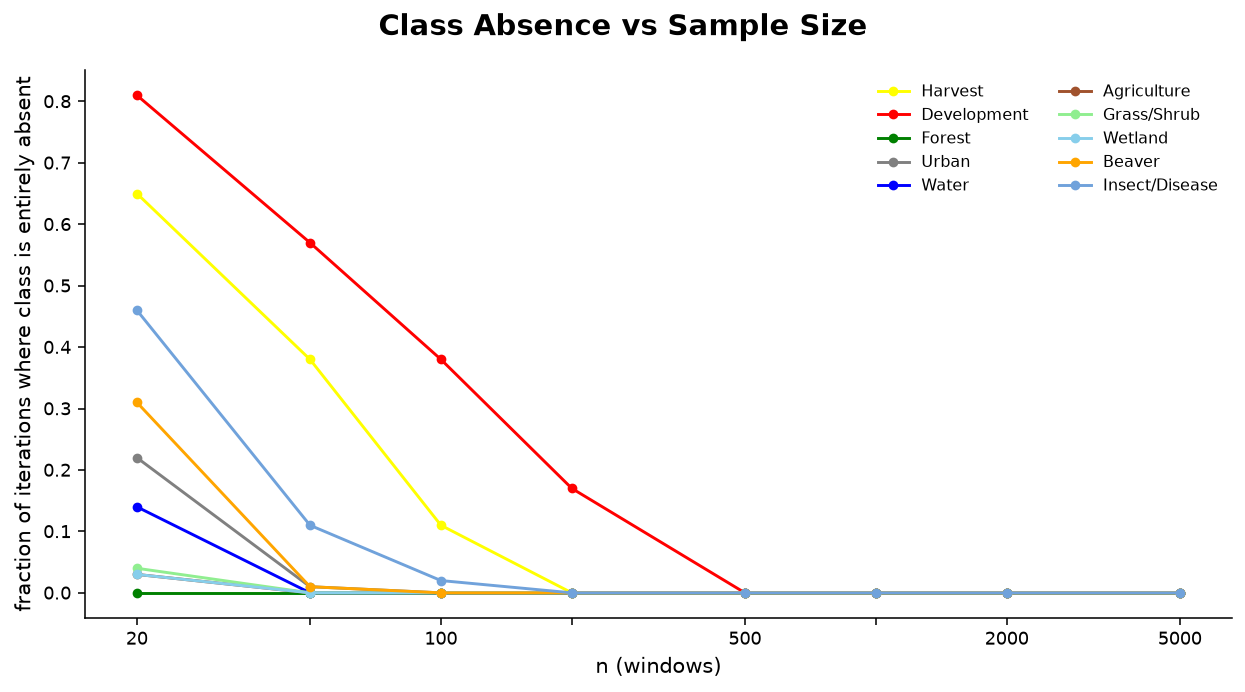
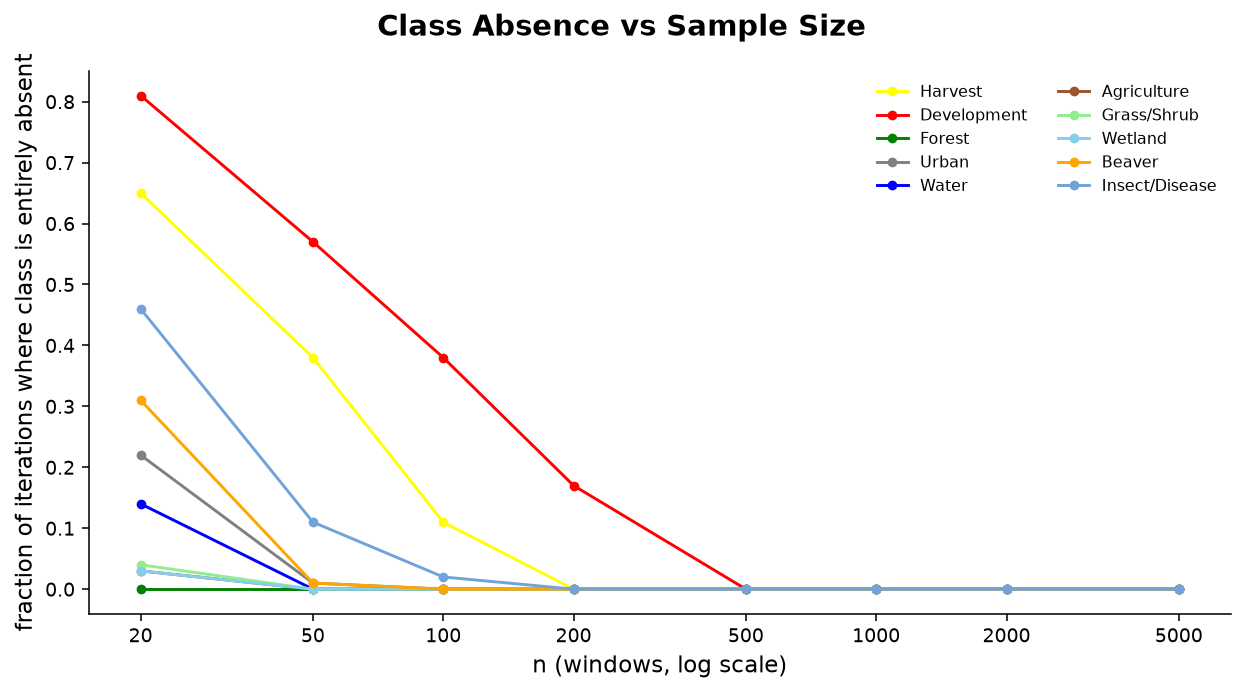
Figure 3.9: label every x tick and mark the axis as log scale
Label all n tick marks (20, 50, 100, 200, 500, 1000, 2000, 5000) and note the
non-linear axis in the label ("n (windows, log scale)"); the uneven tick spacing
conveys the log scale.

diff --git a/scripts/sampling_experiment_ABCD.py b/scripts/sampling_experiment_ABCD.py
@@ -700,10 +700,10 @@ def _make_plots(names, versions):
     for cls in s.cls.unique():
         sc = s[s.cls == cls].sort_values("n")
         ax.plot(sc.n, sc.frac_absent, "o-", label=cls, color=ccol.get(cls), ms=4)
-    ax.set_xlabel("n (windows)", fontsize=11)
-    ax.set_ylabel("fraction of iterations where class is entirely absent", fontsize=11); _logscale(ax, "x")
-    _nticks(ax, n_values)
-    ax.tick_params(labelsize=9)
+    ax.set_xlabel("n (windows, log scale)", fontsize=12)
+    ax.set_ylabel("fraction of iterations where class is entirely absent", fontsize=12); _logscale(ax, "x")
+    _nticks(ax, n_values, label_all=True)                     # label every tick; the log axis is noted in the x label
+    ax.tick_params(labelsize=10)
     fig.suptitle("Class Absence vs Sample Size", fontsize=15, fontweight="bold")
     ax.legend(fontsize=8, frameon=False, ncol=2); _classic(ax)
     fig.tight_layout()
